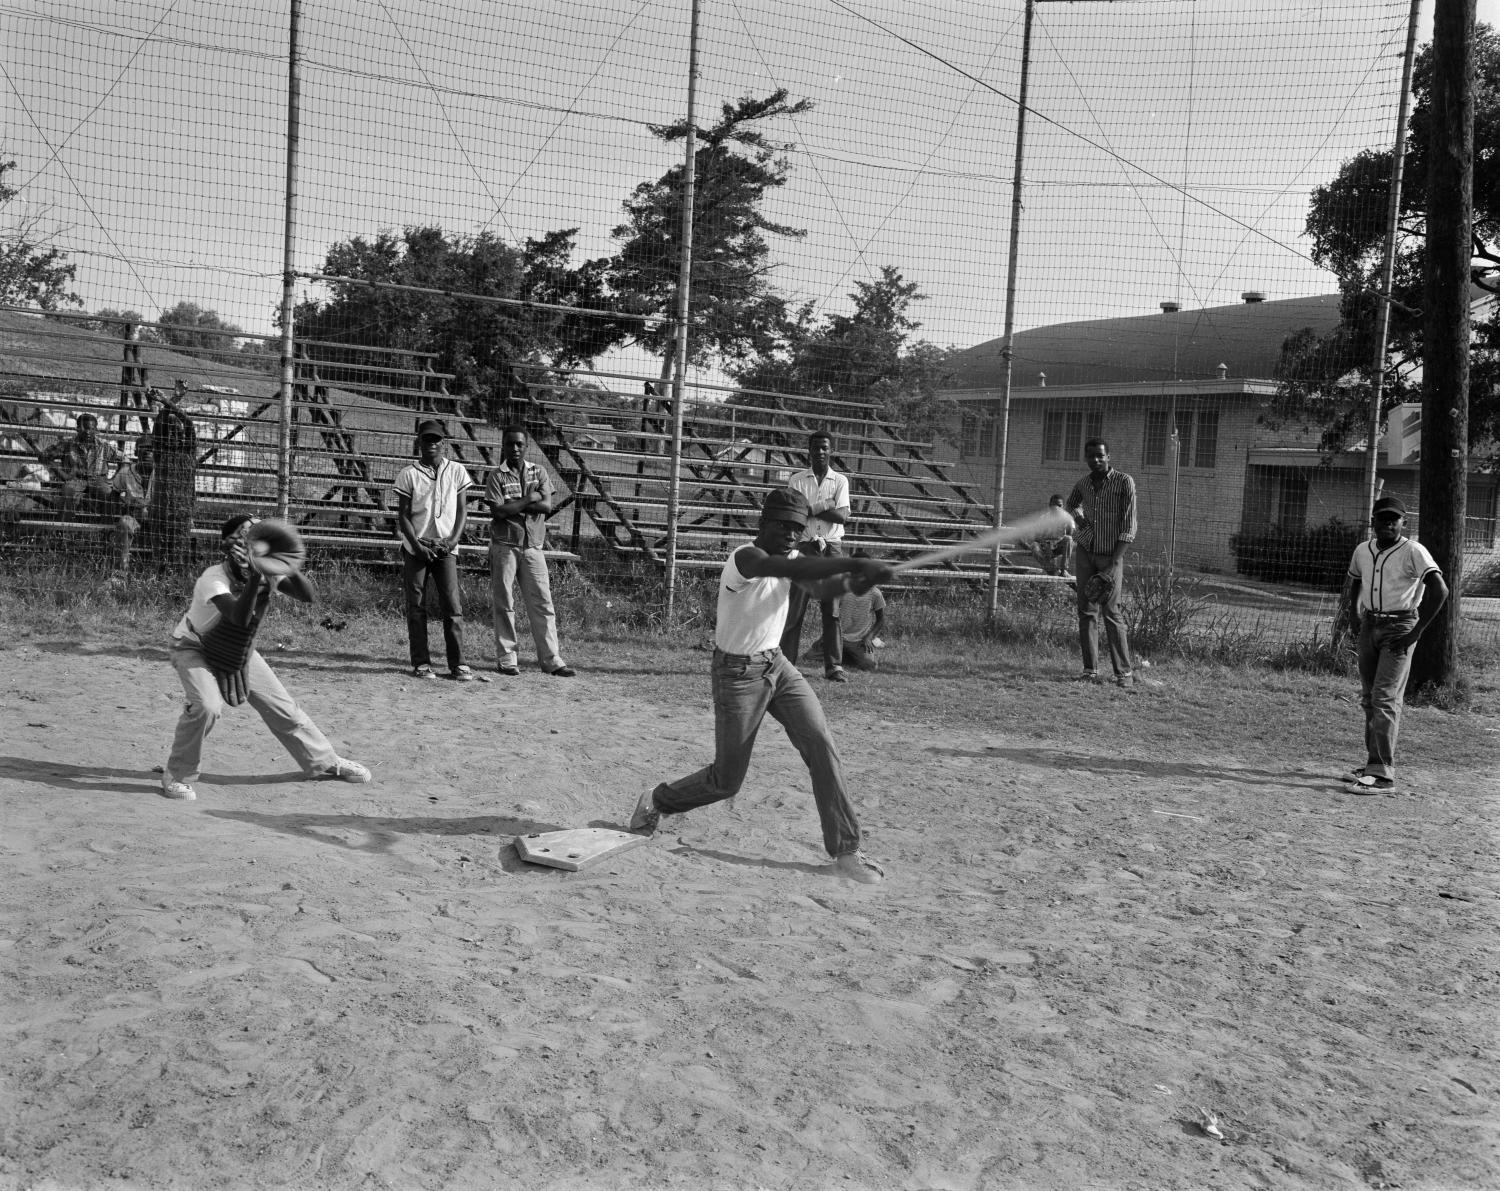
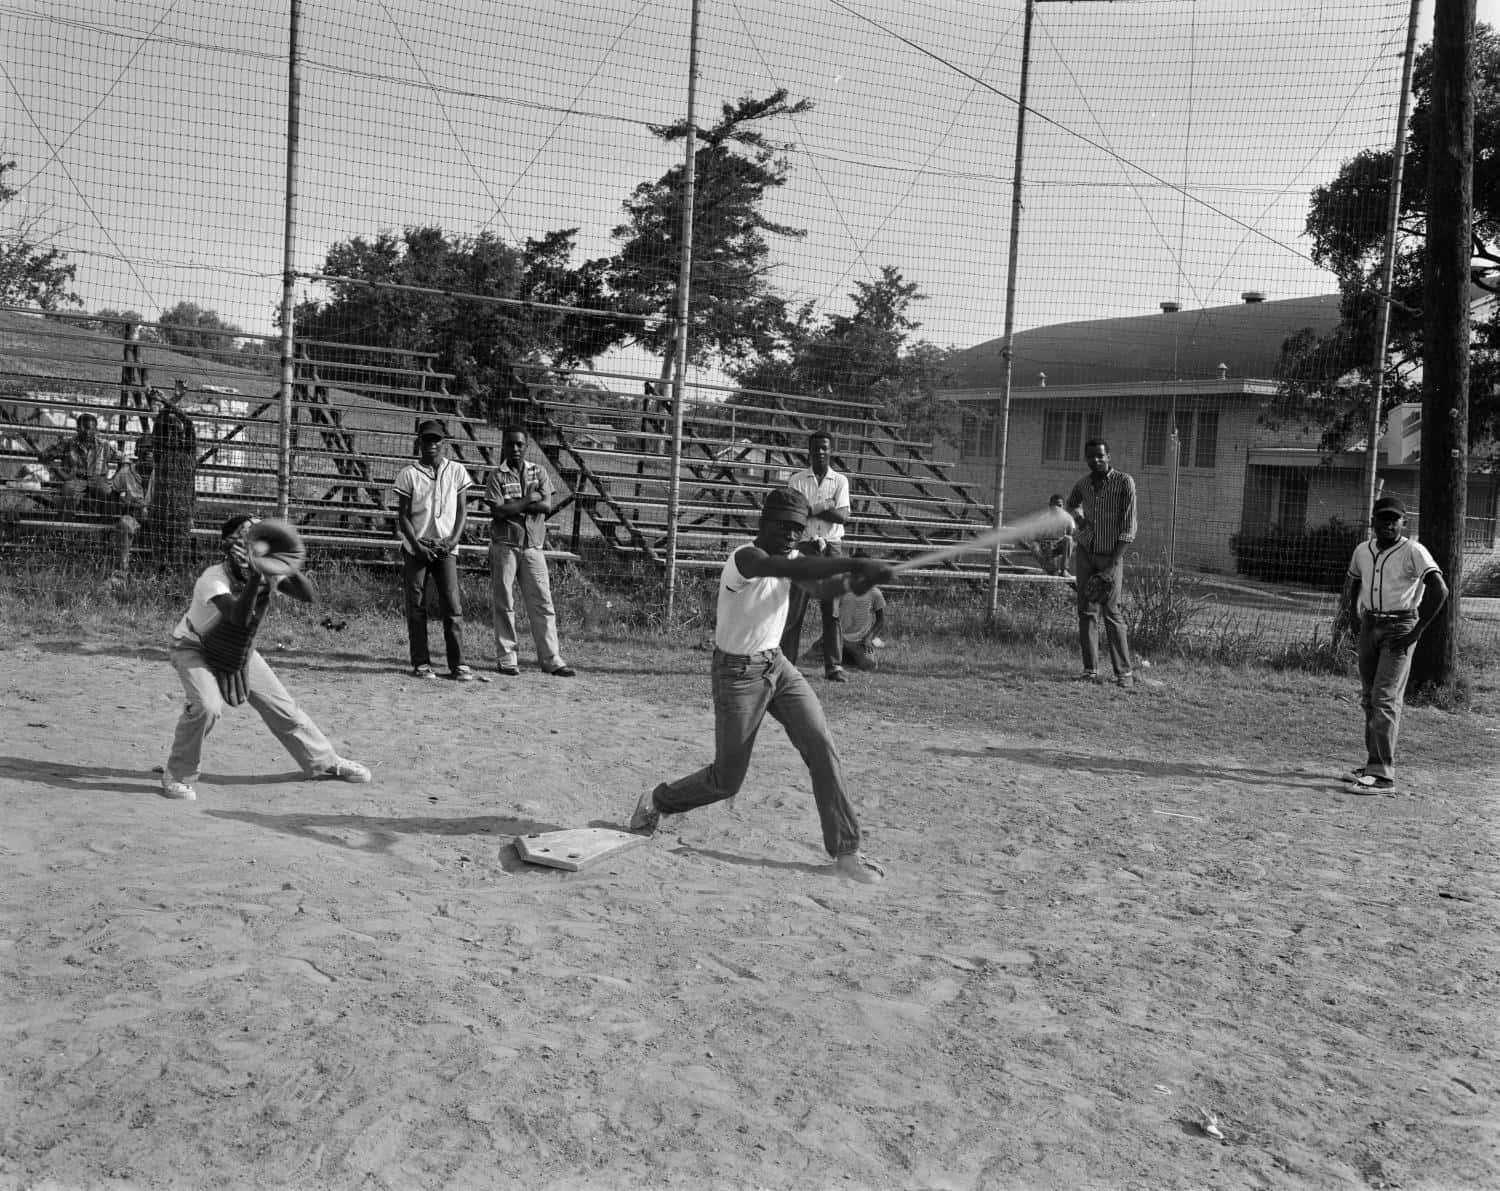
Optimize images

Changed region(s): [[0.9813, 0.1864, 1.0, 0.2175], [0.92, 0.1864, 0.9507, 0.2175]]

diff --git a/components/modal.component.js b/components/modal.component.js
@@ -47,7 +47,7 @@ export default function Modal({ title, clickedImg, setClickedImg }) {
                       </button>
                     </div>
                     <TransformComponent>
-                      <img className="border-2 border-green border-solid" src={clickedImg.image} alt={ clickedImg.caption ? clickedImg.caption : `Photograph at ${title}` } />
+                      <img loading="lazy" className="border-2 border-green border-solid" src={clickedImg.image} alt={ clickedImg.caption ? clickedImg.caption : `Photograph at ${title}` } />
                     </TransformComponent>
                   </div>
                 )}

diff --git a/components/post-body.component.js b/components/post-body.component.js
@@ -21,7 +21,7 @@ export default function PostBody({ title, gallery, content }) {
           <div className="grid grid-cols-1 md:gap-8 md:grid-cols-2">
             {gallery?.map((img, i) => (
               <div>
-                <img src={img.image} onClick={() => handleClick(img, i)} />
+                <img loading="lazy" src={img.image} onClick={() => handleClick(img, i)} />
                 {img.caption ? (
                   <figcaption className="mt-2 italic">{img.caption}</figcaption>
                 ) : null}

diff --git a/_locations/brown-berets.md b/_locations/brown-berets.md
@@ -2,7 +2,7 @@
 title: 'Brown Berets protest AquaFest'
 address: "Chicano Park, 2101 Jesse E. Segovia St, Austin, TX 78702"
 coords: "30.249640, -97.724830"
-coverImage: '/assets/locations/brown-berets/brown-berets-1.jpg'
+coverImage: '/assets/locations/brown-berets/brown-berets-cover.jpg'
 gallery: [
     {
         image: '/assets/locations/brown-berets/brown-berets-1.jpg',

diff --git a/_locations/east-side-story-foundation.md b/_locations/east-side-story-foundation.md
@@ -2,7 +2,7 @@
 title: 'East Side Story Foundation'
 address: "2209 Rosewood Ave, Austin, TX 78702"
 coords: "30.272952,-97.713788"
-coverImage: '/assets/locations/east-side-story/east-side-story-1.jpg'
+coverImage: '/assets/locations/east-side-story/east-side-story-cover.jpg'
 gallery: [
     {
         image: '/assets/locations/east-side-story/east-side-story-1.jpg',

diff --git a/_locations/kealing-junior-high.md b/_locations/kealing-junior-high.md
@@ -2,7 +2,7 @@
 title: 'Kealing Junior High School and Moon tower with black lady'
 address: "1607 Pennsylvania Ave, Austin, TX 78702"
 coords: "30.2711401,-97.7237462"
-coverImage: '/assets/locations/kealing/kealing-1.jpg'
+coverImage: '/assets/locations/kealing/kealing-cover.jpg'
 gallery: [
     {
         image: '/assets/locations/kealing/kealing-1.jpg',

diff --git a/_locations/cj-martin-sons.md b/_locations/cj-martin-sons.md
@@ -2,7 +2,7 @@
 title: 'Lady and railroads'
 address: "1799 E 5th St, Austin, TX 78702"
 coords: "30.260820, -97.723130"
-coverImage: '/assets/locations/cj-martin-sons/cj-martin-sons-1.jpg'
+coverImage: '/assets/locations/cj-martin-sons/cj-martin-sons-cover.jpg'
 gallery: [
     {
         image: '/assets/locations/cj-martin-sons/cj-martin-sons-1.jpg',

diff --git a/_locations/rosewood-park.md b/_locations/rosewood-park.md
@@ -2,7 +2,7 @@
 title: "Rosewood Park"
 address: "2300 Rosewood Ave, Austin, TX 78702"
 coords: "30.270682,-97.71419"
-coverImage: '/assets/locations/rosewood-park/rosewood-park-1.jpg'
+coverImage: '/assets/locations/rosewood-park/rosewood-park-cover.jpg'
 gallery: [
     {
         image: '/assets/locations/rosewood-park/rosewood-park-1.jpg',

diff --git a/_locations/oswaldo.md b/_locations/oswaldo.md
@@ -2,7 +2,7 @@
 title: 'Oswaldo "A.B." Cantu Pan Am Recreation Center'
 address: "2100 E. Third, Austin, TX 78702"
 coords: "30.2581069,-97.7228977"
-coverImage: '/assets/locations/oswaldo/oswaldo-1.jpg'
+coverImage: '/assets/locations/oswaldo/oswaldo-cover.jpg'
 gallery: [
     {
         image: '/assets/locations/oswaldo/oswaldo-1.jpg',

diff --git a/_locations/anderson-high-school.md b/_locations/anderson-high-school.md
@@ -2,7 +2,7 @@
 title: 'Anderson High School'
 address: "902 Thompson St, Austin TX 78702"
 coords: "30.270519, -97.709000"
-coverImage: '/assets/locations/anderson-hs/anderson-hs-1.jpg'
+coverImage: '/assets/locations/anderson-hs/anderson-hs-cover.jpg'
 gallery: [
     {
         image: '/assets/locations/anderson-hs/anderson-hs-1.jpg',

diff --git a/_locations/gulf-station.md b/_locations/gulf-station.md
@@ -2,7 +2,7 @@
 title: 'Gulf Station'
 address: "1614 E 12th St, Austin, TX 78702"
 coords: "30.2734301,-97.7227972"
-coverImage: '/assets/locations/gulf-station/gulf-station-1.jpg'
+coverImage: '/assets/locations/gulf-station/gulf-station-cover.jpg'
 gallery: [
     {
         image: '/assets/locations/gulf-station/gulf-station-1.jpg',

diff --git a/_locations/juneteenth.md b/_locations/juneteenth.md
@@ -2,7 +2,7 @@
 title: "Juneteenth Celebration"
 address: "1900 Rosewood Ave, Austin, TX 78702"
 coords: "30.269917,-97.7188694"
-coverImage: '/assets/locations/juneteenth/juneteenth-1.jpg'
+coverImage: '/assets/locations/juneteenth/juneteenth-cover.jpg'
 gallery: [
     {
         image: '/assets/locations/juneteenth/juneteenth-1.jpg',

diff --git a/_locations/miss-east-austin.md b/_locations/miss-east-austin.md
@@ -2,7 +2,7 @@
 title: 'Miss East Contest at Givens pool'
 address: "3811 E 12th St, Austin, TX 78721"
 coords: "30.2768,-97.6902958"
-coverImage: '/assets/locations/miss-east/miss-east-1.jpg'
+coverImage: '/assets/locations/miss-east/miss-east-cover.jpg'
 gallery: [
     {
         image: '/assets/locations/miss-east/miss-east-1.jpg',
